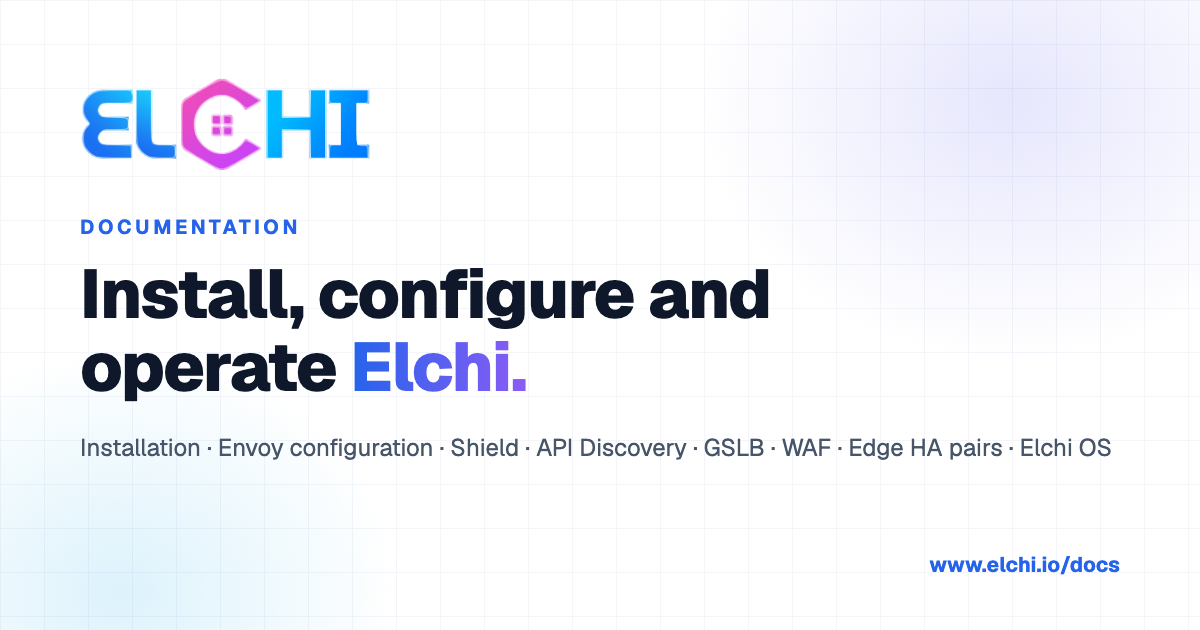
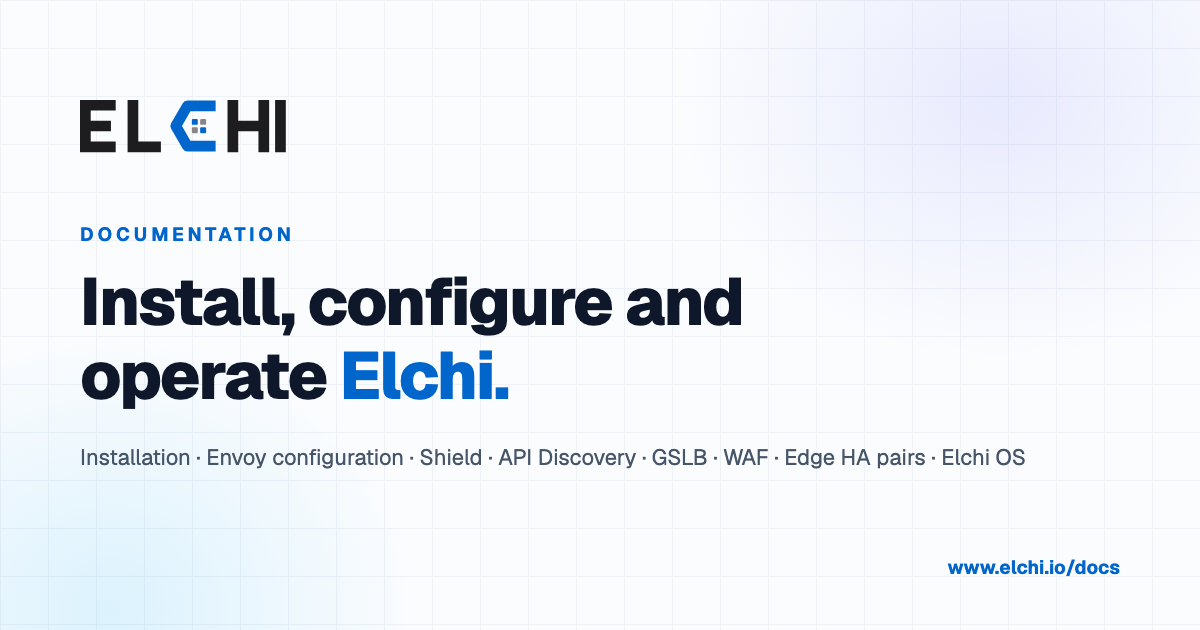
feat: add Open Graph social card template and automated render script

diff --git a/scripts/og/card.html b/scripts/og/card.html
@@ -1,0 +1,56 @@
+<!doctype html>
+<!--
+  Social card (Open Graph / Twitter) template, 1200x630.
+  Rendered by scripts/og/render.sh into public/og-image.png and
+  docs-site/static/img/og-docs.png. Content comes from the query string:
+  ?eyebrow=…&l1=…&l2a=…&l2b=…&sub=…&url=…   (l2b is the accent part)
+-->
+<html>
+<head>
+<meta charset="utf-8">
+<link rel="preconnect" href="https://fonts.googleapis.com">
+<link href="https://fonts.googleapis.com/css2?family=Geist:wght@400;500;700;800&display=swap" rel="stylesheet">
+<style>
+  html, body { margin: 0; width: 1200px; height: 630px; overflow: hidden; }
+  body {
+    position: relative;
+    font-family: 'Geist', system-ui, sans-serif;
+    background: #fbfcfe;
+    color: #0f172a;
+  }
+  .grid {
+    position: absolute; inset: 0;
+    background-image:
+      linear-gradient(#eef1f6 1px, transparent 1px),
+      linear-gradient(90deg, #eef1f6 1px, transparent 1px);
+    background-size: 48px 48px;
+  }
+  .glow-a { position: absolute; right: -120px; top: -160px; width: 640px; height: 520px;
+    background: radial-gradient(closest-side, rgba(129,140,248,.16), transparent); }
+  .glow-b { position: absolute; left: -200px; bottom: -260px; width: 620px; height: 560px;
+    background: radial-gradient(closest-side, rgba(56,189,248,.16), transparent); }
+  .wrap { position: absolute; left: 80px; top: 88px; right: 80px; }
+  .logo { display: block; height: 76px; }
+  .eyebrow { margin-top: 58px; font-size: 19px; font-weight: 700; letter-spacing: .2em;
+    text-transform: uppercase; color: #0066cc; }
+  h1 { margin: 18px 0 0; font-size: 66px; line-height: 1.12; font-weight: 800; letter-spacing: -.025em; }
+  h1 .grad { color: #0066cc; }
+  .sub { margin-top: 30px; font-size: 22px; color: #475569; }
+  .url { position: absolute; right: 80px; bottom: 50px; font-size: 19px; font-weight: 700; color: #0066cc; }
+</style>
+</head>
+<body>
+  <div class="grid"></div><div class="glow-a"></div><div class="glow-b"></div>
+  <div class="wrap">
+    <img class="logo" src="../../public/logo.svg" alt="">
+    <div class="eyebrow" id="eyebrow"></div>
+    <h1><span id="l1"></span><br><span id="l2a"></span><span class="grad" id="l2b"></span></h1>
+    <div class="sub" id="sub"></div>
+  </div>
+  <div class="url" id="url"></div>
+<script>
+  const q = new URLSearchParams(location.search);
+  for (const k of ['eyebrow', 'l1', 'l2a', 'l2b', 'sub', 'url']) document.getElementById(k).textContent = q.get(k) || '';
+</script>
+</body>
+</html>
